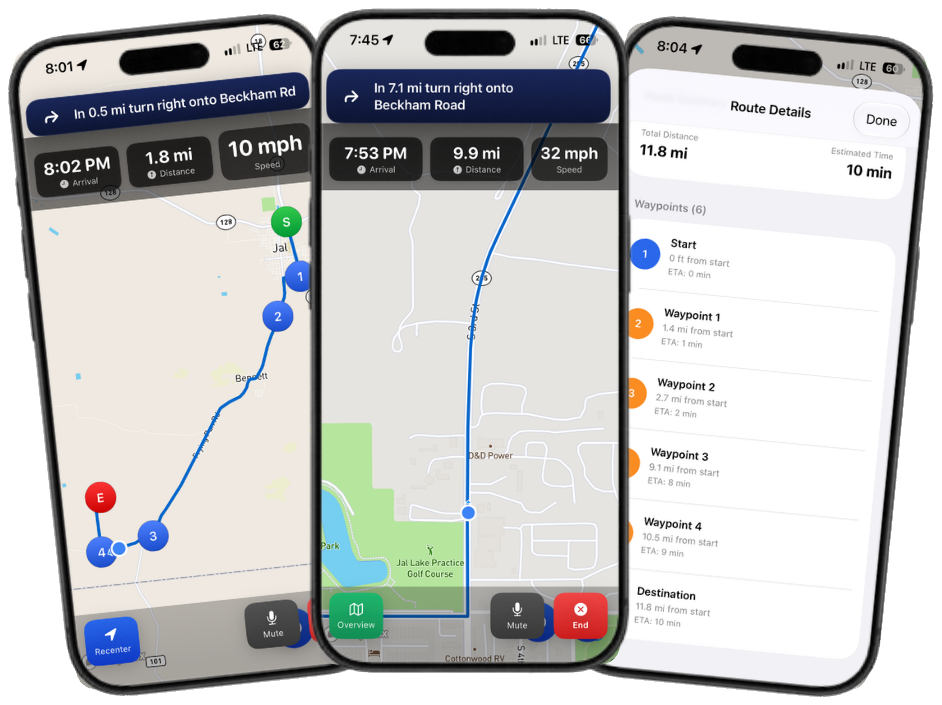
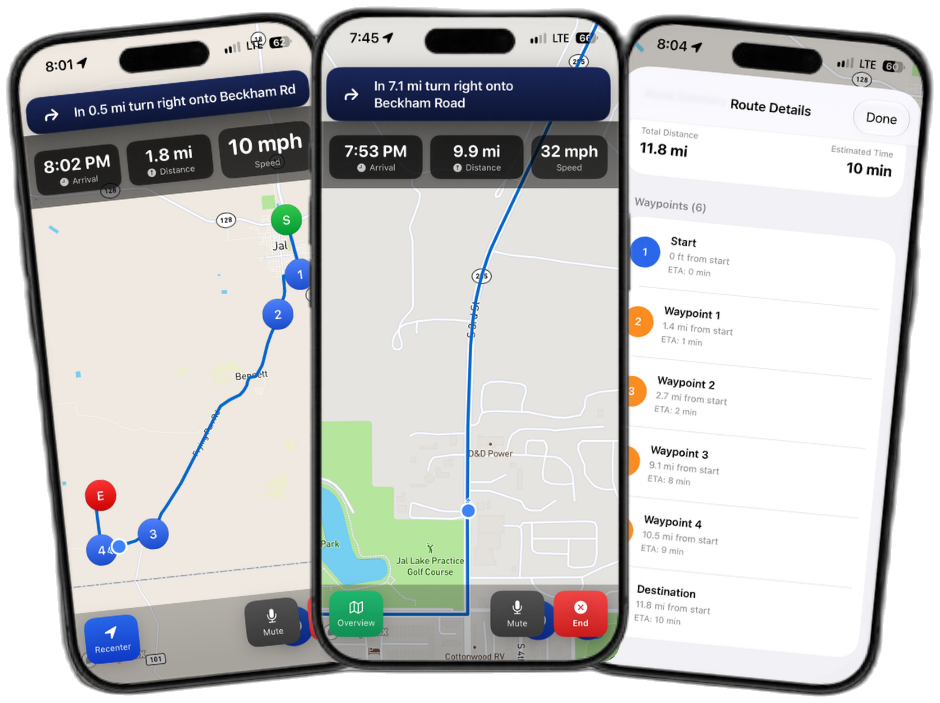
Clean the hero mockup cutout.
Use rembg plus edge decontamination so leftover white is gone between the phones.

diff --git a/index.html b/index.html
@@ -187,7 +187,7 @@
                 </div>
 
                 <div class="index-hero__visual">
-                    <img src="images/permitpathwebsite.png?v=3" alt="PermitPath oversize permit routing and trucker navigation app on iPhone" class="index-hero__phone" width="740" height="auto" />
+                    <img src="images/permitpathwebsite.png?v=4" alt="PermitPath oversize permit routing and trucker navigation app on iPhone" class="index-hero__phone" width="740" height="auto" />
                 </div>
 
                 <div class="index-hero__stores download-buttons">
